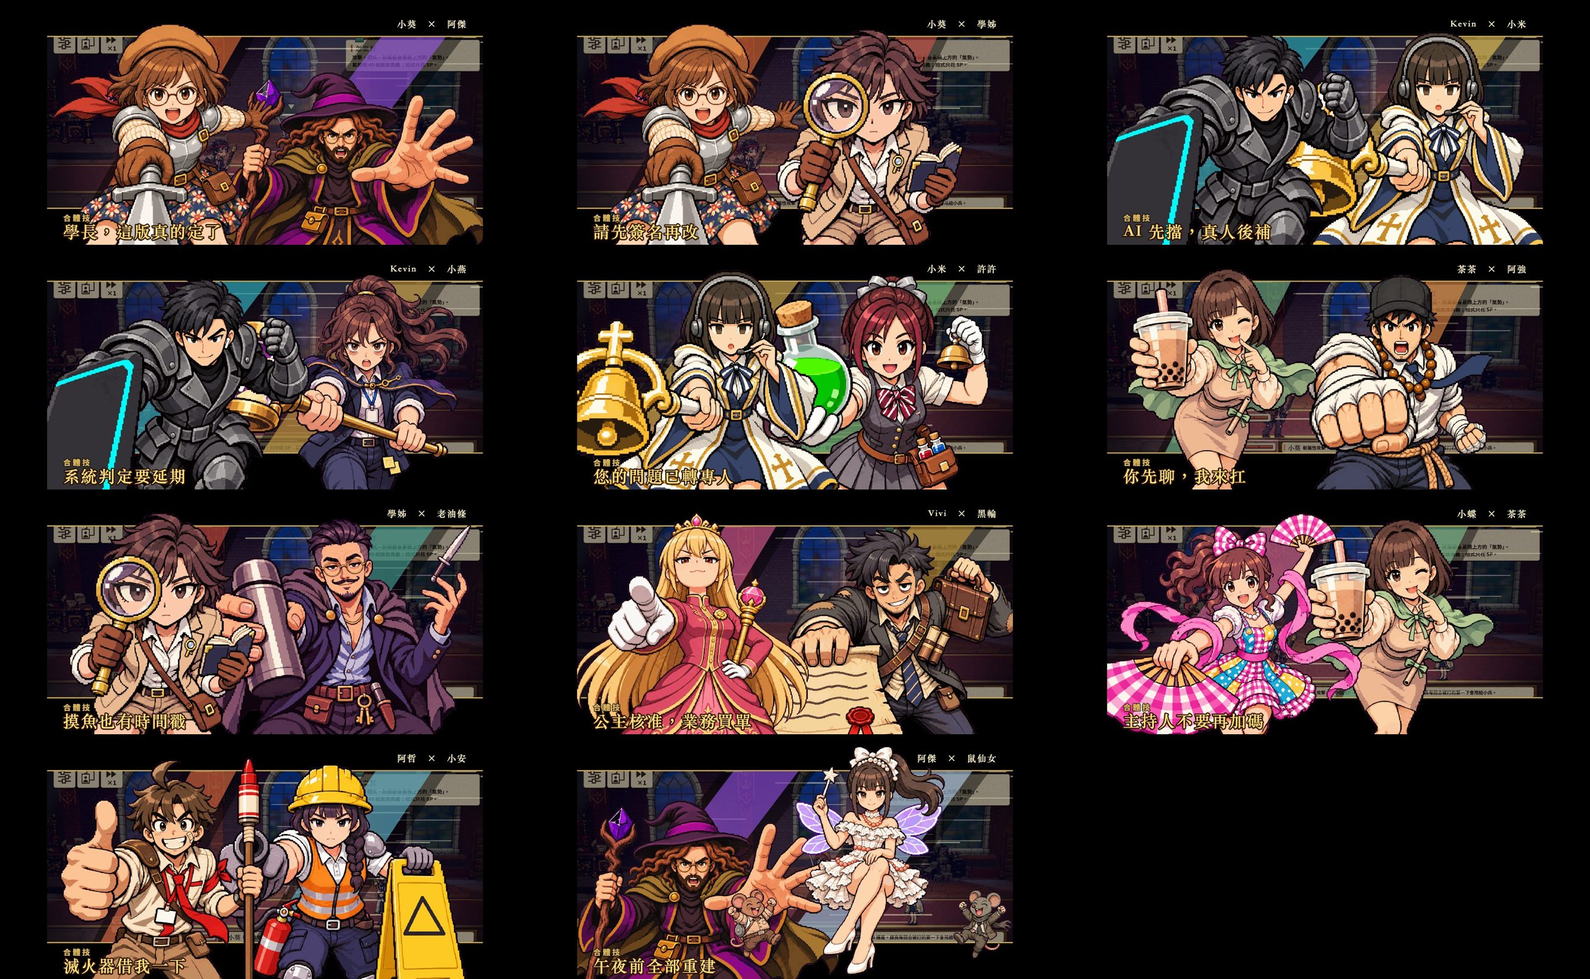
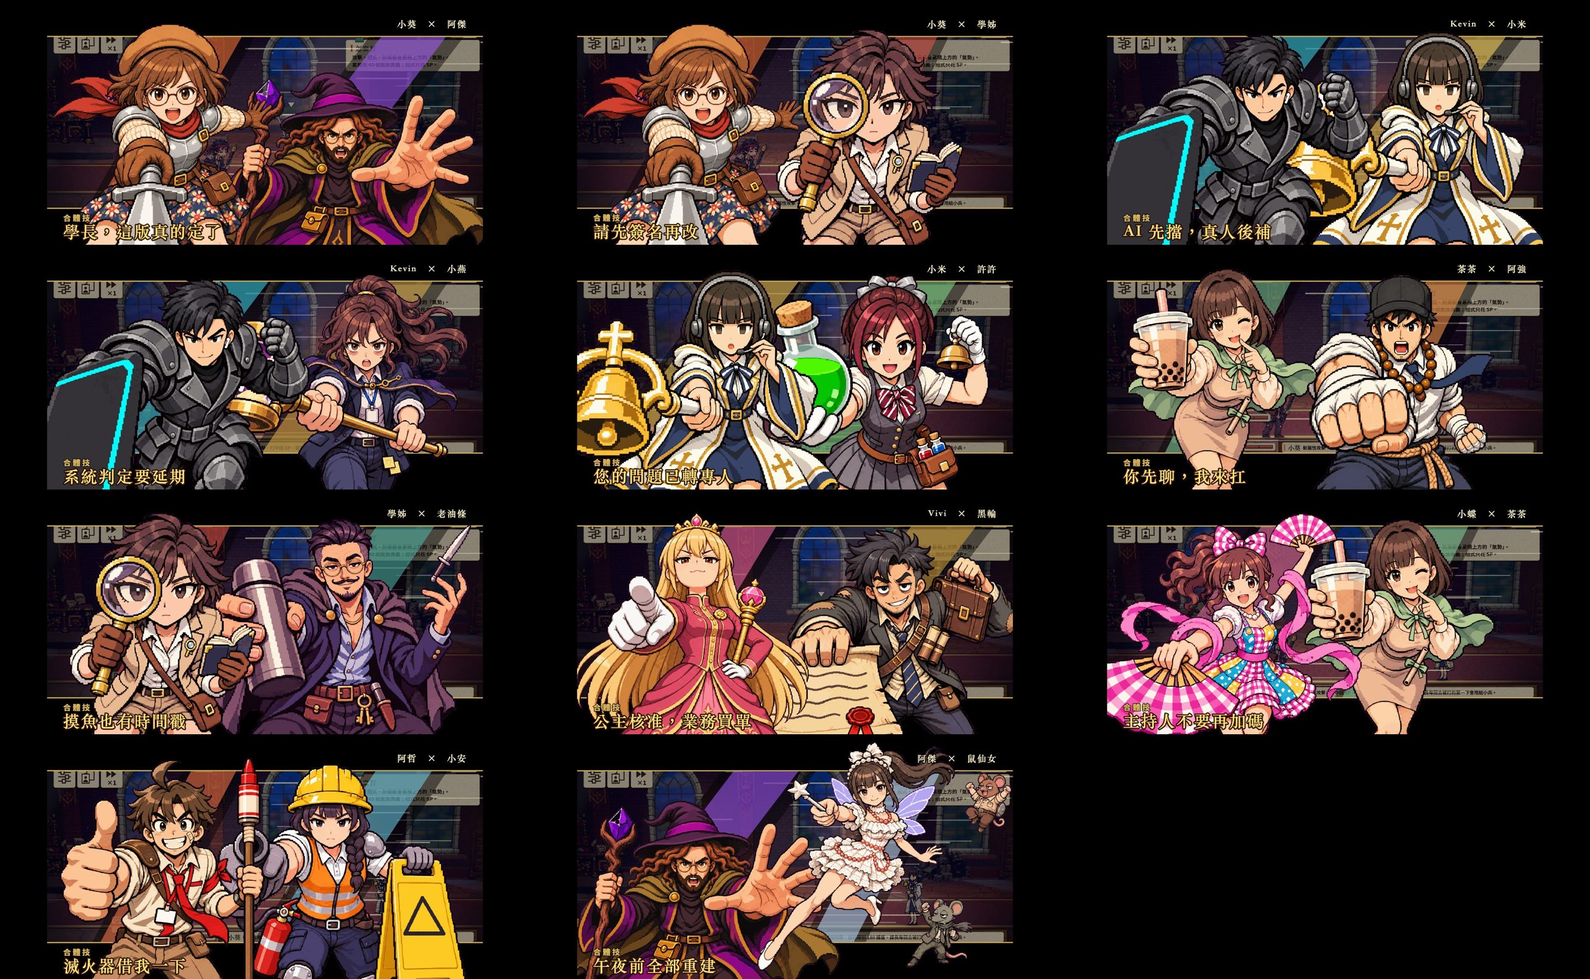
鼠仙女改成飛行構圖（兩個候選），老鼠拆成獨立圖層晚一拍進場
構圖先跟 GPT 討論過（design/unite_film/）。預設斜向飛近，?fairy=b 看橫向掠過。

diff --git a/js/game.js b/js/game.js
@@ -264,14 +264,20 @@ function playSuper(r, t0) { const id = r.id, D = 4.4; S.film = { t0, id, dur: D 
 let uniteFilm = null;
 // 動作圖（衝向鏡頭、看著螢幕；使用者 11/21：「我想要他們做動作看著螢幕」）：art/cutin/act_<代號>.png，有圖的人用動作圖，沒有的用半身像。背景載入
 const ACT_ART = ['kui', 'jie', 'kevin', 'mi', 'vivi', 'yan', 'heilun', 'cha', 'qiang', 'senpai', 'wu', 'you', 'fairy', 'xu', 'zhe', 'an']; // ACT_LIFT：全身都畫出來的人（飄在空中的鼠仙女）往上提，腳才不會被畫面下緣切掉。ACT_TOP：畫在最上面的人（鼠仙女旁邊跳舞的兩隻老鼠不能被隊友擋住）
-const ACT_LIFT = { fairy: 78 }, ACT_TOP = ['fairy']; A.act = {}; for (const id of ACT_ART) loadImg(`art/cutin/act_${id}.png`).then(im => { if (im) A.act[id] = im; });
+const ACT_LIFT = {}, ACT_TOP = ['fairy']; A.act = {}; A.actParts = {};
+// ACT_FLY：會飛的人不貼著畫面底部，而是沿斜線飛進來停在半空（使用者 11/21：鼠仙女會飛，不要被現有的構圖框架卡住；構圖跟 GPT 討論過，見 design/unite_film/）。
+// h／w＝畫出來的高或寬，cx、cy＝停住時中心點（佔畫面的比例，站左邊時 cx 左右對調），from＝從哪裡飛進來（相對停住的位置），rot＝進場時多轉的角度。旁邊的老鼠是另外的圖層（act_<檔名>.json），晚一拍跳進來
+const FAIRY_V = Q.get('fairy') === 'b' ? 'b' : 'a', ACT_FILE = { fairy: 'fairy_' + FAIRY_V }, ACT_FLY = { fairy: FAIRY_V === 'b' ? { w: 900, cx: .62, cy: .4, from: [640, -150], rot: -.07 } : { h: 1010, cx: .64, cy: .5, from: [500, -430], rot: .1 } };
+for (const id of ACT_ART) { const f = ACT_FILE[id] || id; loadImg(`art/cutin/act_${f}.png`).then(im => { if (im) A.act[id] = im; }); if (ACT_FILE[id]) fetch(`art/cutin/act_${f}.json`).then(r => r.ok ? r.json() : null).then(j => j && Promise.all(j.parts.map(q => loadImg('art/cutin/' + q.file).then(im => ({ ...q, im })))).then(ps => { A.actParts[id] = ps.filter(q => q.im); })).catch(() => {}); }
 function drawUniteFilm() { const F = uniteFilm; if (!F) return; const el = now - F.t0; if (el < 0) return; if (el > F.dur) { uniteFilm = null; return; }
   const n = F.ids.length, out = sat((F.dur - el) / .22), k = easeOut(sat(el / .16)) * easeOut(out), BAR = (150 + 26 * sat(el / F.dur)) * k, bh0 = n > 2 ? 980 : 1090, xs = n > 2 ? [.2, .52, .82] : [.29, .74], xa = n > 2 ? [.18, .5, .82] : [.26, .675];
   c.save(); c.fillStyle = `rgba(8,5,4,${.42 * k})`; c.fillRect(0, BAR, W, H - BAR * 2);
   c.save(); c.beginPath(); c.rect(0, BAR, W, H - BAR * 2); c.clip(); c.globalAlpha = .5 * k; c.fillStyle = '#fff3c8'; for (let i = 0; i < 26; i++) { const ly = BAR + 20 + ((i * 97) % Math.max(1, H - BAR * 2 - 40)), lw = 180 + (i * 53) % 420, lx = W + lw - ((el * (2600 + (i * 37) % 900) + i * 311) % (W + lw * 2)); c.fillRect(lx, ly, lw, i % 3 ? 3 : 6); } c.restore();
   if (el < .14) { c.fillStyle = `rgba(255,248,214,${.8 * (1 - el / .14)})`; c.fillRect(0, 0, W, H); }
   c.fillStyle = '#000'; c.fillRect(0, 0, W, BAR); c.fillRect(0, H - BAR, W, BAR); c.fillStyle = '#d8b25a'; c.fillRect(0, BAR - 5, W, 5); c.fillRect(0, H - BAR, W, 5);
-  for (const pass of [0, 1]) F.ids.map((id, i) => [id, i]).reverse().sort((a, b) => ACT_TOP.includes(a[0]) - ACT_TOP.includes(b[0])).forEach(([id, i]) => { const sup = R.isSuper(state, id), isAct = !sup && !!A.act[id], im = (sup && A.bust['s_' + id]) || (isAct && A.act[id]) || A.bust[id]; if (!im) return; const bh = isAct ? Math.min(n > 2 ? 900 : 1010, 1300 * im.height / im.width) : bh0, side = i % 2 ? 1 : -1, te = el - .04 - i * .07, kin = te <= 0 ? 0 : back(sat(te / .22)), w = bh * im.width / im.height, cx = W * (isAct ? xa : xs)[i] + side * (1 - kin) * 900 + side * (1 - out) * 1200 + side * -14 * sat(el / F.dur), top = H + 34 - bh + (n > 2 ? 0 : i * 26) - (isAct ? ACT_LIFT[id] || 0 : 0); if (te <= 0) return;      // ACT_LIFT：全身都畫出來的人（飄在空中的鼠仙女）往上提，腳才不會被畫面下緣切掉
+  for (const pass of [0, 1]) F.ids.map((id, i) => [id, i]).reverse().sort((a, b) => ACT_TOP.includes(a[0]) - ACT_TOP.includes(b[0])).forEach(([id, i]) => { const sup = R.isSuper(state, id), isAct = !sup && !!A.act[id], im = (sup && A.bust['s_' + id]) || (isAct && A.act[id]) || A.bust[id]; if (!im) return; const fly = isAct && ACT_FLY[id], bh = fly ? (fly.h || fly.w * im.height / im.width) * (n > 2 ? .85 : 1) : isAct ? Math.min(n > 2 ? 900 : 1010, 1300 * im.height / im.width) : bh0, side = i % 2 ? 1 : -1, te = el - .04 - i * .07, kin = te <= 0 ? 0 : back(sat(te / .22)), w = bh * im.width / im.height, cx = W * (isAct ? xa : xs)[i] + side * (1 - kin) * 900 + side * (1 - out) * 1200 + side * -14 * sat(el / F.dur), top = H + 34 - bh + (n > 2 ? 0 : i * 26) - (isAct ? ACT_LIFT[id] || 0 : 0); if (te <= 0) return;      // ACT_LIFT：全身都畫出來的人（飄在空中的鼠仙女）往上提，腳才不會被畫面下緣切掉
+    if (fly && pass) { const fx0 = W * (i % 2 ? fly.cx : 1 - fly.cx) + side * ((1 - kin) * fly.from[0] + (1 - out) * 1100), fy0 = H * fly.cy + (1 - kin) * fly.from[1] - (1 - out) * 520, s = bh / im.height; c.save(); c.globalAlpha = sat(te / .1); c.translate(fx0, fy0); c.rotate(side * (1 - kin) * fly.rot); pix(im, -w / 2, -bh / 2, w, bh);
+      (A.actParts[id] || []).forEach((q, j) => { const tq = te - .1 - j * .07; if (tq <= 0) return; const kq = back(sat(tq / .2)); c.globalAlpha = sat(tq / .08); pix(q.im, -w / 2 + q.x * s, -bh / 2 + q.y * s + (1 - kq) * 90 - Math.sin(sat(tq / .34) * Math.PI) * 26, q.w * s, q.h * s); }); c.restore(); return; }
     c.save(); c.globalAlpha = sat(te / .1); if (!pass) { c.fillStyle = 'rgba(0,0,0,.45)'; c.beginPath(); c.moveTo(cx - w * .34, H - BAR); c.lineTo(cx + w * .1, BAR); c.lineTo(cx + w * .42, BAR); c.lineTo(cx - w * .02, H - BAR); c.closePath(); c.fill(); c.fillStyle = DEFS[id].color; c.globalAlpha *= .55; c.beginPath(); c.moveTo(cx - w * .3, H - BAR); c.lineTo(cx + w * .14, BAR); c.lineTo(cx + w * .36, BAR); c.lineTo(cx - w * .08, H - BAR); c.closePath(); c.fill(); } else pix(im, cx - w / 2, top, w, bh); c.restore(); });
   if (el > .3) { const u = easeOut(sat((el - .3) / .2)) * out; c.globalAlpha = u; text('合體技', 70 - (1 - u) * 60, H - BAR + 58, { px: 34, w: 900, col: '#d8b25a', ls: 8, stroke: 'rgba(0,0,0,.9)', sw: 6 }); text(F.name, 70 - (1 - u) * 60, H - BAR + 128, { px: 72, w: 900, fam: SERIF, col: '#ffe27a', ls: 6, stroke: 'rgba(40,16,0,.95)', sw: 12 }); text(F.ids.map(id => DEFS[id].name).join('　×　'), W - 70 + (1 - u) * 60, BAR - 44, { px: 40, w: 900, fam: SERIF, align: 'right', col: '#fff3c8', ls: 4, stroke: 'rgba(0,0,0,.9)', sw: 8 }); }
   c.restore(); }

diff --git a/tools/act.py b/tools/act.py
@@ -1,17 +1,23 @@
 """合體技的動作圖去背：洋紅 → 透明，裁到人物範圍。洋紅用嚴格的範圍判斷（阿傑帽子上的紫色帶子不能被挖掉），手臂和身體中間的洋紅空隙也要挖掉。
-用法：uv run --with pillow --with numpy --with scipy python tools/act.py kui jie"""
-import sys, numpy as np
+用法：uv run --with pillow --with numpy --with scipy python tools/act.py kui jie
+加 --layers：最大的一塊（本人）存成 act_<id>.png，其他大塊（鼠仙女旁邊的老鼠）各存一張 act_<id>_p1.png…，位置寫在 act_<id>.json（以本人那張的左上角為原點、單位是像素），遊戲裡可以讓牠們晚一拍進場"""
+import sys, json, numpy as np
 from PIL import Image
 from scipy import ndimage as ndi
-for n in sys.argv[1:]:
+layers = '--layers' in sys.argv
+q = lambda im: im.quantize(256, method=Image.Quantize.FASTOCTREE, dither=Image.Dither.NONE)      # 壓成 256 色，檔案小很多（像素圖看不出差別）
+for n in [a for a in sys.argv[1:] if not a.startswith('--')]:
     a = np.asarray(Image.open(f'art/raw/act_{n}.png').convert('RGB')).astype(int); r, g, b = a[..., 0], a[..., 1], a[..., 2]
     bg = (r > 190) & (b > 190) & (g < 110) & (abs(r - b) < 60)
     fg = ~bg
     for _ in range(2):      # 邊緣帶洋紅色的那一圈往內收
         edge = fg & ~ndi.binary_erosion(fg); fg &= ~(edge & (r - g > 70) & (b - g > 70) & (r > 150) & (b > 150))
-    lab, k = ndi.label(fg); sizes = ndi.sum(fg, lab, range(1, k + 1)); keep = np.zeros_like(fg)
-    for i, s in enumerate(sizes, 1):
-        if s >= max(sizes) * .01: keep |= lab == i      # 小碎片丟掉，留人物本體和跟身體分開的大塊（例如伸出來的手）
-    ys, xs = np.nonzero(keep); out = np.dstack([a, np.where(keep, 255, 0)]).astype(np.uint8)
-    im = Image.fromarray(out).crop((xs.min(), ys.min(), xs.max() + 1, ys.max() + 1)).quantize(256, method=Image.Quantize.FASTOCTREE, dither=Image.Dither.NONE); im.save(f'art/cutin/act_{n}.png', optimize=True);      # 壓成 256 色，檔案小很多（像素圖看不出差別）
-    print(n, im.size, '塊數', int((sizes >= max(sizes) * .01).sum()))
+    lab, k = ndi.label(fg); sizes = ndi.sum(fg, lab, range(1, k + 1)); big = [i for i, s in enumerate(sizes, 1) if s >= max(sizes) * .01]      # 小碎片丟掉
+    def cut(mask):
+        ys, xs = np.nonzero(mask); out = np.dstack([a, np.where(mask, 255, 0)]).astype(np.uint8); return Image.fromarray(out).crop((xs.min(), ys.min(), xs.max() + 1, ys.max() + 1)), int(xs.min()), int(ys.min())
+    if not layers:
+        keep = np.isin(lab, big); im, _, _ = cut(keep); q(im).save(f'art/cutin/act_{n}.png', optimize=True); print(n, im.size, '塊數', len(big)); continue
+    main = 1 + int(np.argmax(sizes)); im, x0, y0 = cut(lab == main); q(im).save(f'art/cutin/act_{n}.png', optimize=True); parts = []
+    for j, i in enumerate([i for i in big if i != main], 1):
+        pim, px, py = cut(lab == i); f = f'act_{n}_p{j}.png'; q(pim).save('art/cutin/' + f, optimize=True); parts.append({'file': f, 'x': px - x0, 'y': py - y0, 'w': pim.width, 'h': pim.height})
+    json.dump({'w': im.width, 'h': im.height, 'parts': parts}, open(f'art/cutin/act_{n}.json', 'w')); print(n, im.size, '另外的圖層', [(p['file'], p['w'], p['h']) for p in parts])

diff --git a/design/unite_film/fairy_gpt_reply.md b/design/unite_film/fairy_gpt_reply.md
@@ -1,0 +1,109 @@
+**最值得改的不是坐姿本身，而是讓她的「懸空方式」成為構圖主角。** 現在像「把坐著的立繪抬高」；建議改成「她正飛近鏡頭，施法到一半被定格」。美腿負責拉出飛行軌跡，魔杖與視線負責把觀眾拉進來，兩隻老鼠則補出歡樂的節奏。
+
+以下以鼠仙女在右、另一位角色在左為前提；左右可以整組鏡像。
+
+**A．現在這版為什麼顯得普通**
+
+- **動勢線仍是直立的。** 從蝴蝶結、臉、胸口到骨盆，主軸接近垂直。翹起的小腿雖然形成斜線，但只發生在下半身，沒有帶動肩膀、腰、馬尾一起飛。第一眼讀到的是「坐著」，其次才是「在空中」。
+- **輪廓像一張完整的人物展示圖。** 頭在上、裙子在中、鞋子在下，整體仍是穩定的直立長形。雙腿交疊成單一狹長形狀，裙擺又像承托身體的座墊，容易讓人自行補出一張看不見的椅子。
+- **透視的主導權完全在左邊。** 法師伸出的手有明顯近大遠小；鼠仙女的臉、手、魔杖、膝蓋卻大致在同一個平面。結果是法師「衝出來」，她「擺在旁邊」。
+- **負空間集中在外側，身體內部較擠。** 魔杖手、臉、馬尾與翅膀聚在上方；另一隻手壓在裙子與膝蓋上。缺少能一眼辨認的手臂空隙、腿間空隙，縮小後細節容易黏成一團。
+- **雖然跨過上下黑邊，但沒有飛行方向。** 蝴蝶結超出上黑邊、鞋子超出下黑邊，主要是「人物夠高」造成的。兩端沒有一起指向某個飛行路徑，所以比較像放大立繪，而不是衝破畫框。
+- **跟法師的接點落在擁擠區。** 法師的大手貼近她左側的裙擺與翅膀，兩人的輪廓互相吃掉；她沒有以另一條清楚的動勢線接住法師的力量。
+- **老鼠目前像兩個裝飾貼紙。** 一隻在法師手前、一隻在右下，都是張手跳躍，位置與動作沒有交代「跟著仙女飛進來」或「被她的魔法帶動」。
+
+**B．四個可以直接畫的方案**
+
+**① 斜向飛近：把祝福送到鏡頭前**
+
+**一句話概念：** 她從右上方輕盈滑降，身體斜懸在空中，朝觀眾送出一記溫柔的治癒咒語。
+
+- **動勢線與角度：** 頭在右上、骨盆稍偏左下，雙腿繼續往左下延伸；頭到腳的主軸偏離垂直約 25～30 度。胸口朝鏡頭，腰部微彎，形成一條修長、柔和的 S 線。頭、胸與骨盆維持相容的朝向，不扭頭回看。
+- **鏡頭與透視：** 鏡頭略高於胸口，輕微俯視。拿魔杖的手向鏡頭伸出，**星尖與持杖手最近，其次是臉，腿稍遠**；手只略放大，避免變成法師大手的重複。
+- **腿：** 靠畫面中央的腿伸長，膝蓋保持一點柔度、腳尖向下；另一腿向身後收，膝蓋仍在裙襬下方，只露出一段側向的小腿。兩腿不交叉成結，至少保留一條清楚的輪廓縫隙。裙子正面完整遮住骨盆。
+- **翅膀、馬尾、裙擺：** 馬尾往右上拖出，與滑降方向相反；裙擺往右後方微微掀展，保持有重量的布料感。翅膀一高一低，至少一側完整露出，避免左右對稱得像標本。
+- **老鼠：** 棕鼠在她右上後方，雙手舉高、雙膝微縮，像開心追上；灰鼠在她右下外側，一手高舉、一手張開，雙腿前後分開跳舞。兩鼠不要遮住腿。
+- **黑邊與進場：** 從右上斜進。蝴蝶結與馬尾跨上黑邊，伸長腿的鞋尖跨下黑邊；**上下兩端沿著同一條斜線破框**。
+- **構圖手法：** 魔法少女飛近鏡頭的斜向構圖，加上動畫主視覺的 S 曲線。
+
+**② 橫向掠過：半空中的優雅飛躍**
+
+**一句話概念：** 她像從右側掠過觀眾面前，胸口先到、雙腿留在身後，定格在一個輕盈的空中舞步。
+
+- **動勢線與角度：** 頭在右半部靠中央的位置，胸口、腰、骨盆往右方延伸；軀幹主軸接近水平，向右下傾約 20～25 度。骨盆之後，雙腿再往右下延伸，整體是一條展開的弧線。**重點是胸口領飛、腿留後方，不是坐著把腳抬起來。**
+- **鏡頭與透視：** 從前上方輕微俯視。肩膀與胸口保持朝鏡頭，骨盆只小幅轉向，讓身體有厚度。臉與近側肩膀最近，腳較遠；不讓鞋底朝鏡頭。
+- **腿：** 一腿從髖部往右下伸長，腳背延伸；另一腿向身後彎起，小腿折回，鞋子靠近但不碰到伸長腿的膝部。兩個膝蓋分開讀得出來，兩隻鞋也各有完整輪廓。避免雙膝一起抬到胸前。
+- **翅膀、馬尾、裙擺：** 馬尾往右上展開，裙擺往右側拖，三者共同交代「她往左飛」。翅膀從肩背上下錯開露出，不要跟馬尾疊成同一片。
+- **老鼠：** 棕鼠在右上方，雙手張開、雙腳縮起，像歡呼的小跳躍；灰鼠在右下、腿部輪廓之外，做一腳伸出、一腳收起的舞步。兩鼠與她形成往右張開的小三角。
+- **黑邊與進場：** 從右側偏上掠入。髮飾或上側翅膀跨上黑邊；腿可以留在中間畫幅，不必硬碰下黑邊。她下方刻意留出一塊戰場，讓懸空感成立。
+- **構圖手法：** 橫向飛行鏡頭、空中芭蕾跳躍，以及主視覺中的弧形構圖。
+
+**③ 向上浮升：被祝福托起的瞬間**
+
+**一句話概念：** 她正緩緩升空，魔杖高舉、雙腳自然垂下，像一句愛的咒語把整個人輕輕托起。
+
+- **動勢線與角度：** 身體接近垂直，但胸口向左、骨盆向右錯開少許，形成細長 S 線。持杖手向右上伸，另一隻手朝觀眾攤開。靠肩腰的錯位與腳尖懸垂，避免站姿感。
+- **鏡頭與透視：** 鏡頭略低於胸口，僅輕微仰視；不把鏡頭放在裙子下方。近側攤開的手最近，頭與肩居次，下半身不誇張放大。
+- **腿：** 一腿垂直延伸，另一腿膝蓋輕彎、腳尖往後收；兩隻鞋一高一低，沒有踩地的水平關係。雙膝維持接近，靠小腿輪廓分開。
+- **翅膀、馬尾、裙擺：** 翅膀向兩側打開；馬尾先向下墜，再在尾端輕輕上翹，呈現浮升後的延遲。裙擺保持向下的鐘形，只讓側緣稍微飄動。
+- **老鼠：** 放在她左右下方，但留在右半畫面，各自抬頭歡呼。一隻雙手高舉，一隻拍手跳起；腳底高度不同。
+- **黑邊與進場：** 從右下往上升入。魔杖星尖與髮飾跨上黑邊；鞋子停在下黑邊上緣之上，保留明確空隙。
+- **構圖手法：** 魔法少女變身的升空定格、祝福降臨式的垂直構圖。
+
+**④ 俯視迎面：從空中彎向觀眾**
+
+**一句話概念：** 觀眾像站在高處，她從下方飛近，仰起整個上半身與我們對視，雙腿在遠處舒展。
+
+- **動勢線與角度：** 臉與肩膀佔右上，軀幹往右下退，骨盆與雙腿再往畫面下方延伸。胸腔整體朝鏡頭抬起，臉沿著胸口方向自然看來，不能只把脖子往後折。
+- **鏡頭與透視：** 中度俯視，約 25～35 度。臉與向前伸的持杖手較近，腰、腿依序縮小。不要用極端廣角，否則只剩大頭和短腿。
+- **腿：** 兩條大腿方向接近，一條腿伸長，另一條向外側輕彎；遠端小腿與鞋仍需露出。膝蓋不要正對鏡頭，避免縮成兩顆圓球。
+- **翅膀、馬尾、裙擺：** 俯視可看見較完整的翅膀面，放在肩膀後方左右錯開。馬尾往右後方甩，裙擺呈偏斜的橢圓，遮蔽完整。
+- **老鼠：** 棕鼠在遠處右上、灰鼠在遠處右下，以較小尺寸做歡呼舞步，形成前後深度；不要貼在她肩上。
+- **黑邊與進場：** 從右下往左上靠近。髮飾、持杖手或星尖跨上黑邊；腿收在中央畫幅，以「近處上半身越框、遠處腿留框內」表現深度。
+- **構圖手法：** 俯視飛行主視覺、前景人物放大與縱深縮短。
+
+**C．推薦順序與畫壞預防**
+
+**首選①「斜向飛近」。** 它同時滿足飛行、美腿、看鏡頭與上下破框，而且縮成手機尺寸後，仍能靠一條大斜線讀懂。與左側法師搭配時，法師的手向前、她的身體斜向下，兩人各有清楚的動作。
+
+合成時，把她的持杖手放在**法師大手的右上方**，兩者留出明確空隙；不要讓星尖、法師手指、仙女裙邊三者交會在同一點。
+
+最容易畫壞的是：收起的腿變成第三條腿、持杖手旁多出手指，以及頭保持直立、肩膀卻傾斜過度。描述中加入：
+
+> 骨盆下只有兩條腿；一條完整伸長，另一條向後彎，兩個膝蓋與兩隻鞋都能辨認。只有兩隻手，一手握住單支魔杖，另一手自然張開。頭與胸口一起傾斜，頸部保持自然連接。
+
+**次選②「橫向掠過」。** 它和其他站姿角色差異最大，也最能把「會飛」變成她的專屬辨識。她下方留空後，即使不加光效，也不會被讀成站在地上。
+
+最容易畫壞的是：腰扭成不合理角度、後腿從裙邊長出來，以及雙腿彎成坐姿。描述中加入：
+
+> 胸口與骨盆維持自然連接，只有輕微軀幹旋轉。兩條腿都從裙子遮住的骨盆位置延伸；一腿向後伸長，另一腿只在膝部彎曲。雙膝不抬向胸口，腹部保持舒展。
+
+兩案都建議加上：**裙子正面遮住骨盆，不呈現裙底；美腿靠側向延伸與完整小腿線條表現。**
+
+**D．可直接接在造型描述後的英文提示詞**
+
+**方案①：**
+
+> Full-body airborne pose on the right half of a widescreen composition, gliding diagonally from upper right toward lower left. Her head, chest, hips, and extended leg form a graceful, elongated S-curve, tilted about twenty-five degrees from vertical. Her face and chest turn together toward the viewer, with direct eye contact and a sweet, composed smile. Use a slightly elevated frontal camera. She extends one wand-holding hand toward the viewer; the wand tip and hand are closest, with gentle foreshortening. Her other hand opens softly beside her torso. One leg extends downward diagonally with a relaxed knee and pointed toe; the other bends behind, leaving both legs and both shoes clearly distinguishable. Keep the pelvis covered, without an underskirt view. Her upper silhouette crosses the top framing band, and the extended shoe crosses the bottom band. A small brown mouse cheers behind her upper right; a small gray mouse dances outside her lower-right leg silhouette.
+
+**方案②：**
+
+> Full-body horizontal flight across the right half of a widescreen composition, traveling from right to left. Her head and shoulders lead near the upper center-right; her torso stretches diagonally backward toward her hips on the right, forming a long, buoyant arc. Show her from a slightly elevated frontal viewpoint, with her chest facing the viewer and only a gentle rotation through the waist. Her face follows the chest naturally, making direct eye contact with a warm, confident smile. She presents the wand forward beside her face; her free arm opens away from her waist. One leg trails long toward the lower right with an extended ankle; the other bends backward at the knee. Keep both knees below the hips, both shoes visible, and the pelvis covered. Avoid a seated silhouette. Her upper silhouette overlaps the top framing band, with open space beneath her body. A small brown mouse cheers above her trailing side; a small gray mouse performs a joyful kick below and outside her legs.
+
+**E．1.8 秒進場動態建議**
+
+**首選①的動態：斜降、輕抬、停住。**
+
+- **0.00～0.16 秒：** 戰場定格，上下黑邊滑入。
+- **0.08～0.36 秒：** 鼠仙女從右上沿斜線飛入。起點比定格位置高約畫面高度的 20～25%，右移約畫面寬度的 12～16%；起始尺寸約最終的 92%。
+- **0.36～0.46 秒：** 超過定格位置少許，再向右上回收。位移控制在畫面高度的 1～2%，像飛行時輕輕煞住。整張圖的旋轉差控制在 4～6 度，不要轉成翻跟斗。
+- **0.46～1.52 秒：** 清楚定格。臉停在右半部上方，鞋尖跨下黑邊；持杖手與法師大手保持分離。
+- **1.52～1.80 秒：** 立繪淡出或快速退出，接回戰場技能演出。
+
+**次選②的動態：水平掠入，停住時微微上浮。**
+
+從右側偏上進場，以水平位移為主，最後向上帶一點弧度。整張圖只轉約 3～4 度，停住時胸口略抬，保留身體下方的空隙。這個方案不需要很大的縮放，輪廓橫向展開本身就夠有差異。
+
+**兩隻老鼠建議各自去背成獨立圖層。** 棕鼠晚仙女約 0.06 秒、灰鼠晚約 0.10 秒進場，各做一次小幅跳起後停住；不要持續循環跳舞，否則會搶掉大招定格的焦點。若只能輸出一張合成圖，就把兩鼠畫成一高一低、動作不同，靠整組的弧線進場表現跟隨感。
+
+最關鍵的節奏是：**仙女輕盈飛到位，老鼠晚一拍湊齊，接著全畫面一起穩穩停住。**
